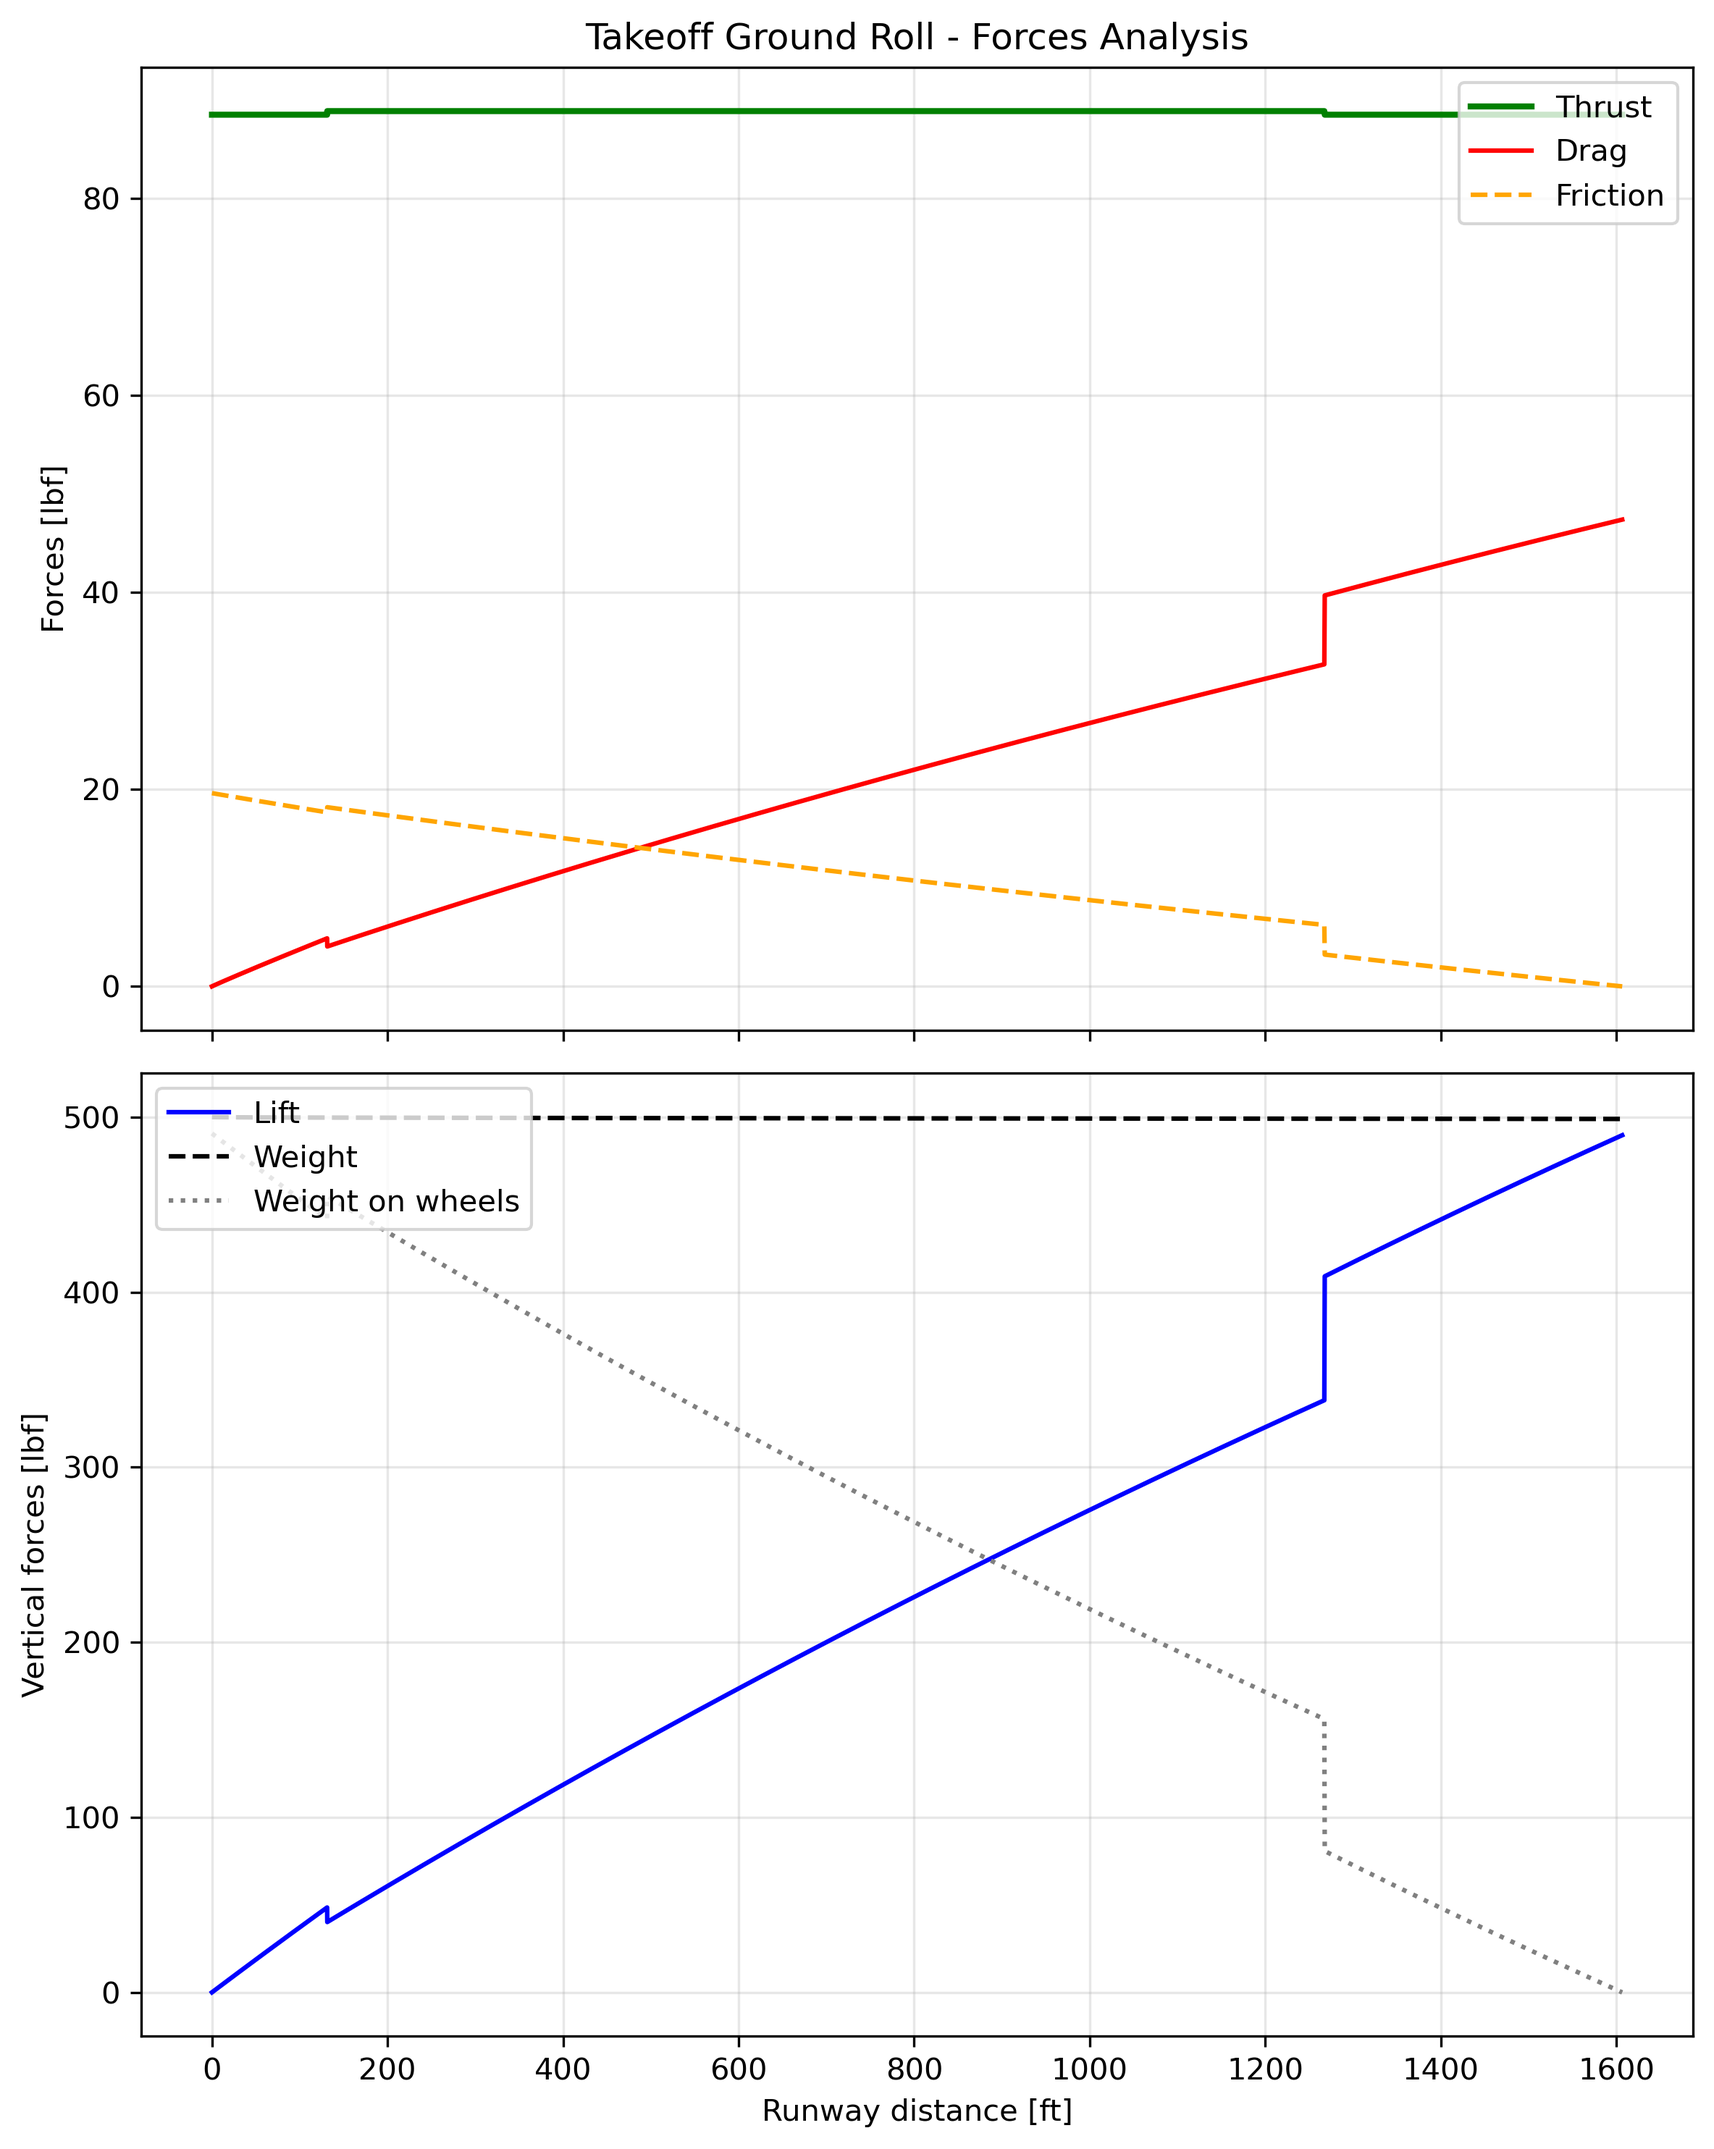
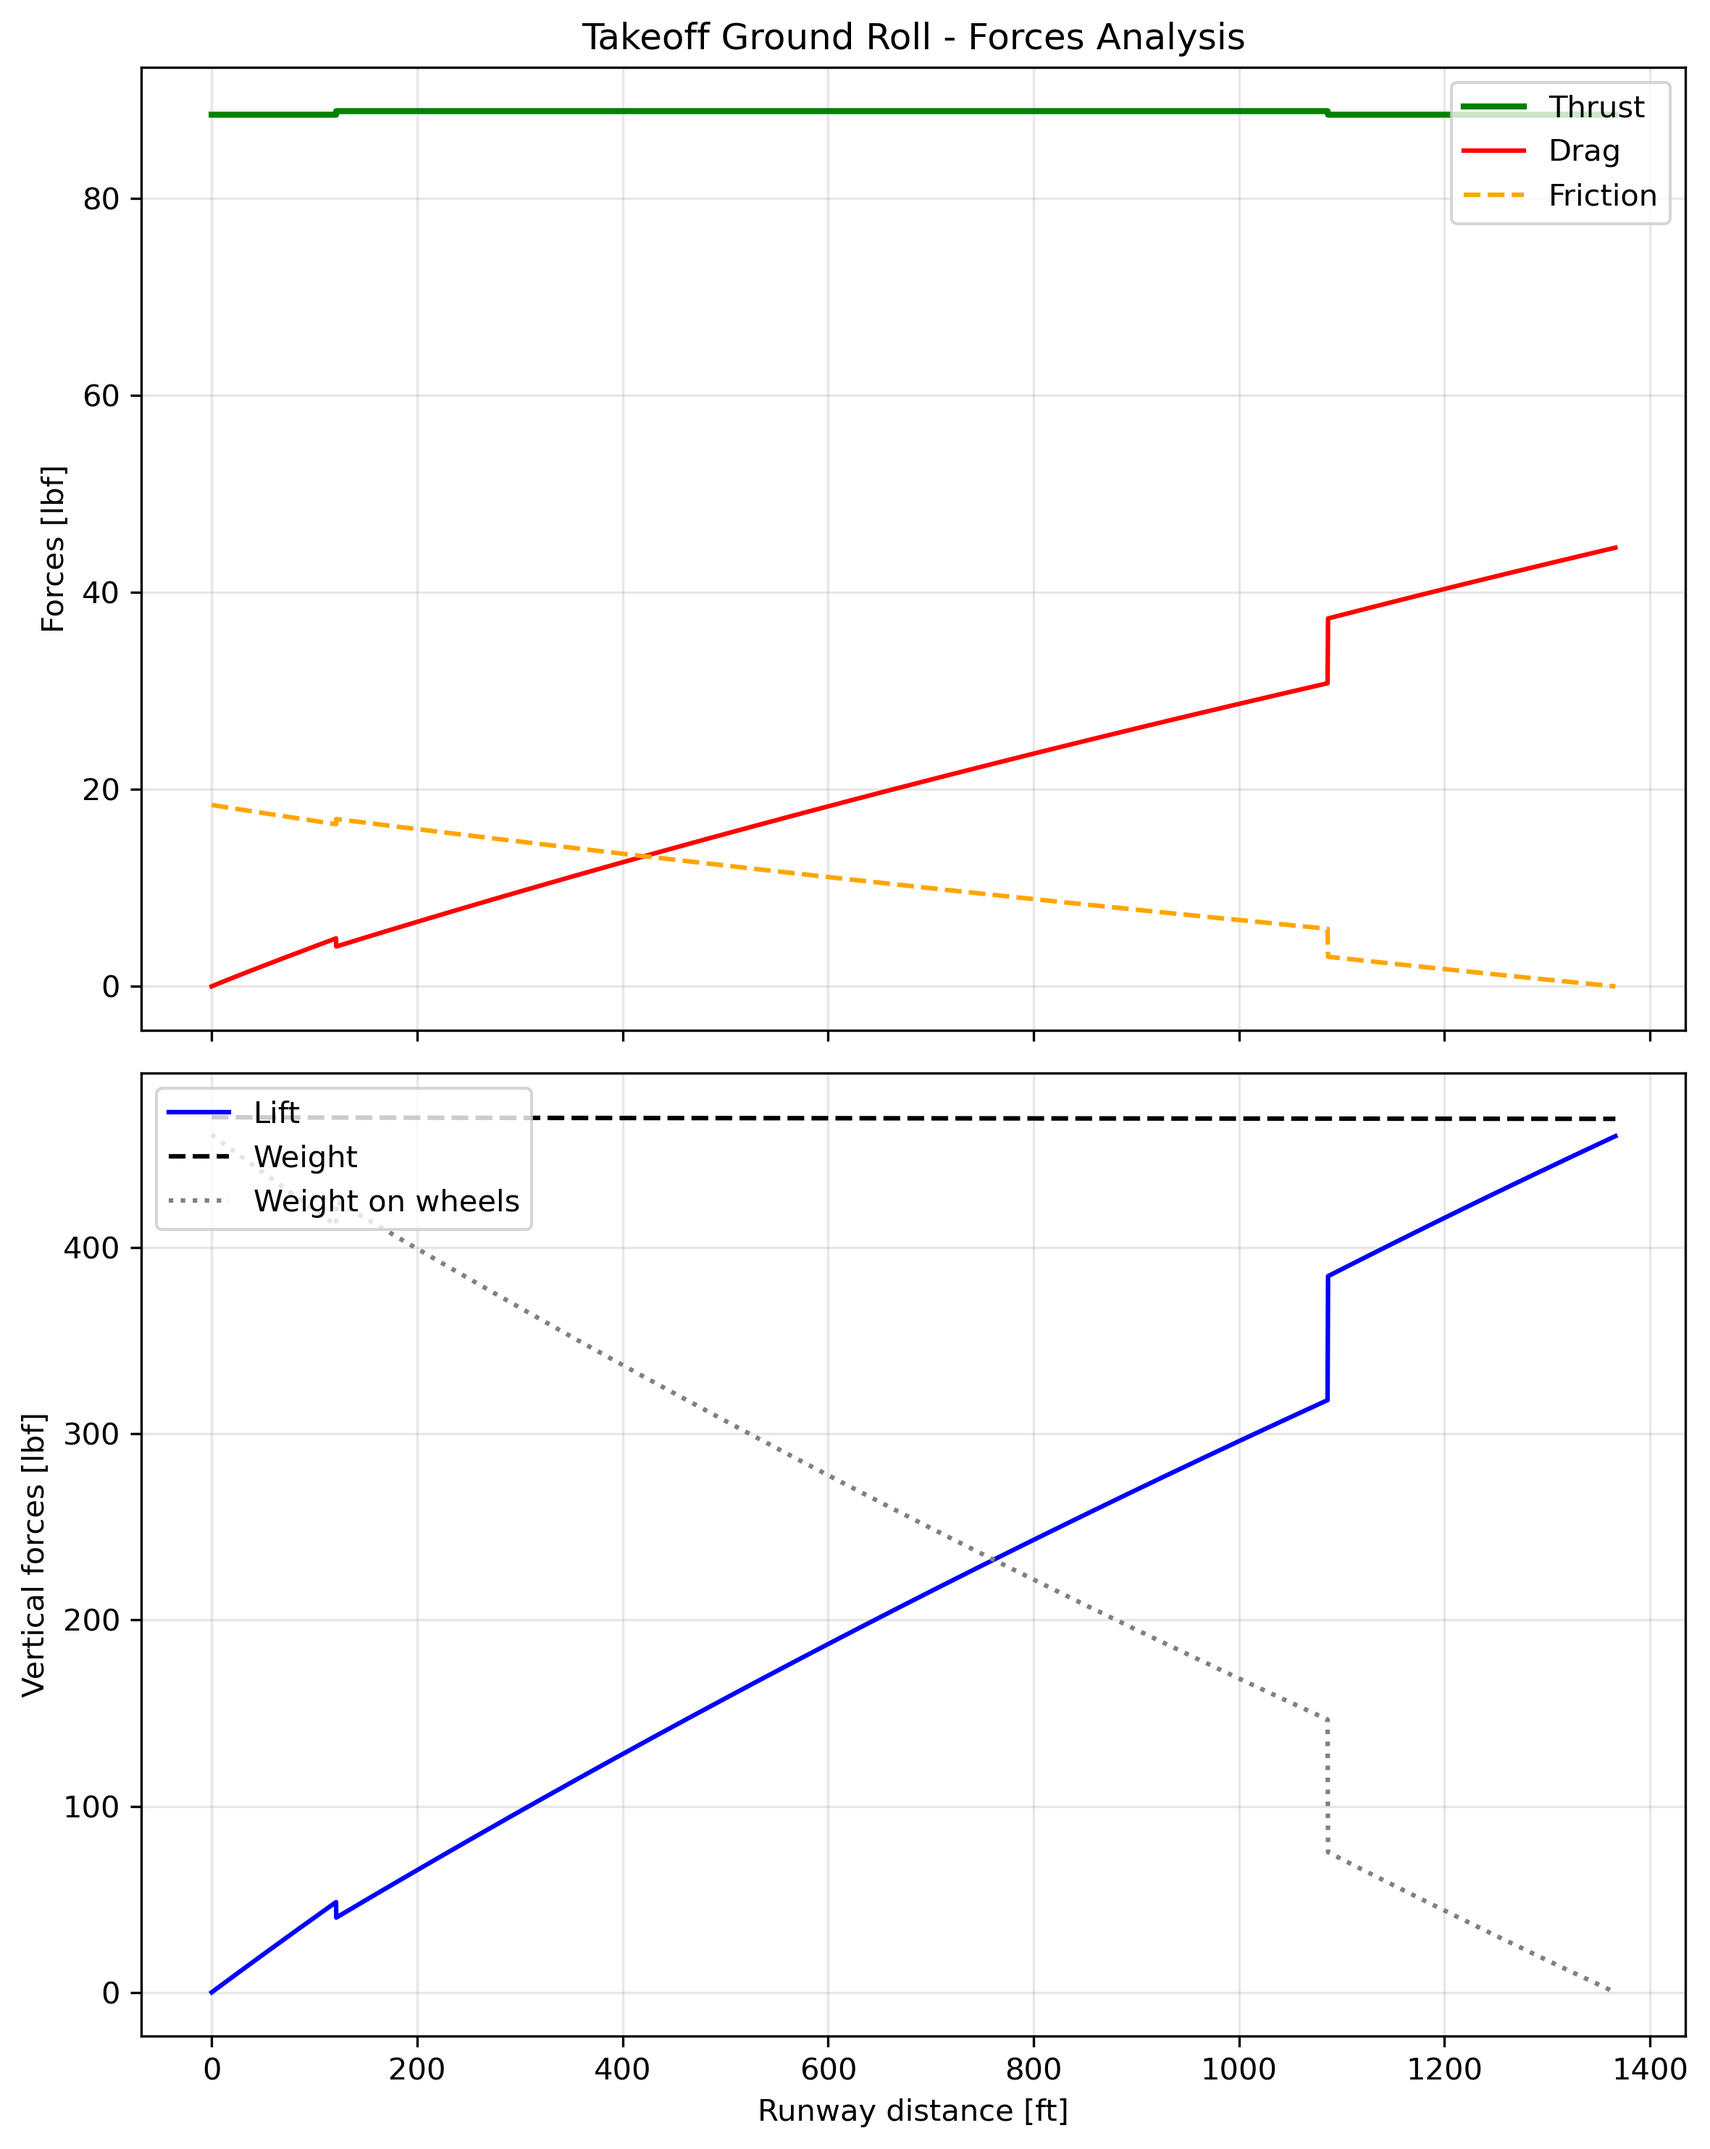
maj mineure pour inclure TO dans le launcher

diff --git a/launcher.py b/launcher.py
@@ -81,6 +81,24 @@ MODULES = [
         "category": "Décollage",
     },
     {
+        "name": "🛞 Simulation roulement décollage",
+        "file": "take_off_run.py",
+        "desc": "Simulation pas-à-pas du roulement au sol : forces, portance, vitesse de liftoff.",
+        "detail": (
+            "TAKE_OFF_RUN.PY — Ground Roll Simulation\n"
+            "━━━━━━━━━━━━━━━━━━━━━━━━━━━━━━━━━━━━━━━━━\n\n"
+            "Simulation dynamique du roulement au décollage en 3 phases :\n"
+            "  1. Roulage initial (α initial) jusqu'à V_transition\n"
+            "  2. Transition (α transition) jusqu'à V_rotation\n"
+            "  3. Rotation (α rotation) jusqu'au liftoff (L ≥ W)\n\n"
+            "Graphiques :\n"
+            "  • Bilan des forces (Thrust, Drag, Friction) vs distance\n"
+            "  • Portance vs Poids vs distance\n\n"
+            "Sorties console : distance totale, temps, vitesse de liftoff."
+        ),
+        "category": "Décollage",
+    },
+    {
         "name": "📊 Carpet plot décollage",
         "file": "takeoff_carpet_plot.py",
         "desc": "Abaque distance de décollage vs altitude et température.",
@@ -115,7 +133,7 @@ PARAM_GROUPS = [
     {
         "group": "Masses",
         "params": [
-            ("OEW",       "OEW (Operating Empty Weight)", 248,   "lb"),
+            ("OEW",       "OEW (Operating Empty Weight)", 218,   "lb"),
             ("FUEL_LOAD", "Fuel Load",                    75.0,  "lb"),
             ("RESERVE",   "Fuel Reserve",                 7.0,   "lb"),
             ("PAYLOAD",   "Payload",                      170,   "lb"),

diff --git a/Aircraft_data.py b/Aircraft_data.py
@@ -301,7 +301,7 @@ def get_default_inputs() -> tuple[FlightConditions, AircraftGeometry, AeroParams
         cl_max_30 = 1.58,
 
         # ---- masses (surchargées par le launcher si config existe) ----
-        OEW       = cfg("OEW", 248),
+        OEW       = cfg("OEW", 218),
         FUEL_LOAD = cfg("FUEL_LOAD", 75.0),
         RESERVE   = cfg("RESERVE", 7.0),
         PAYLOAD   = cfg("PAYLOAD", 170),
